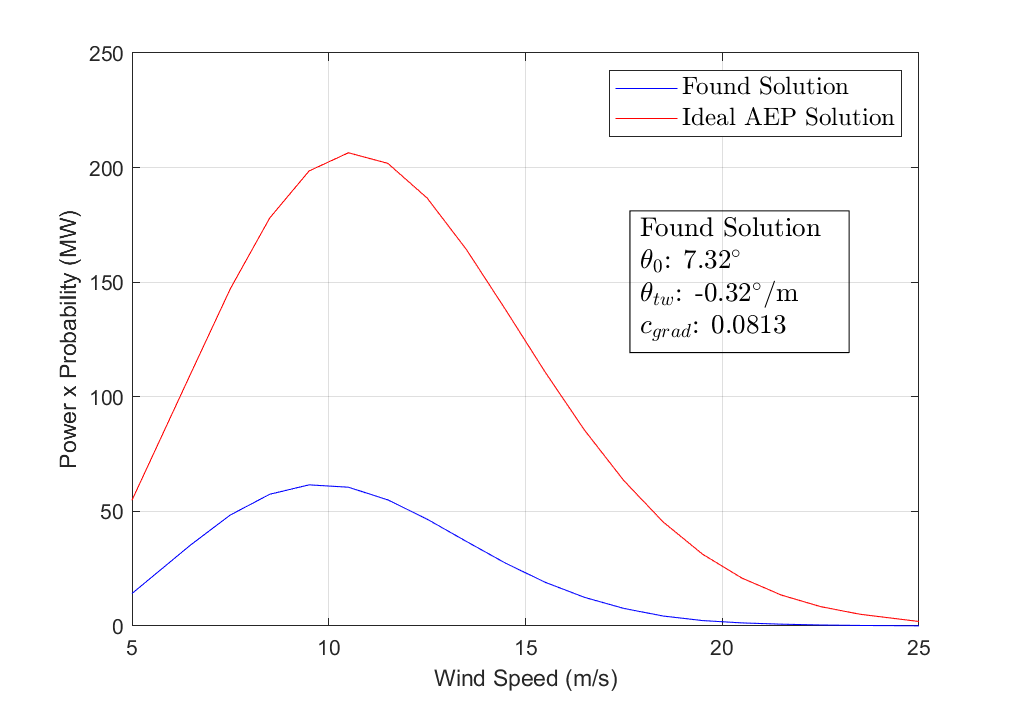
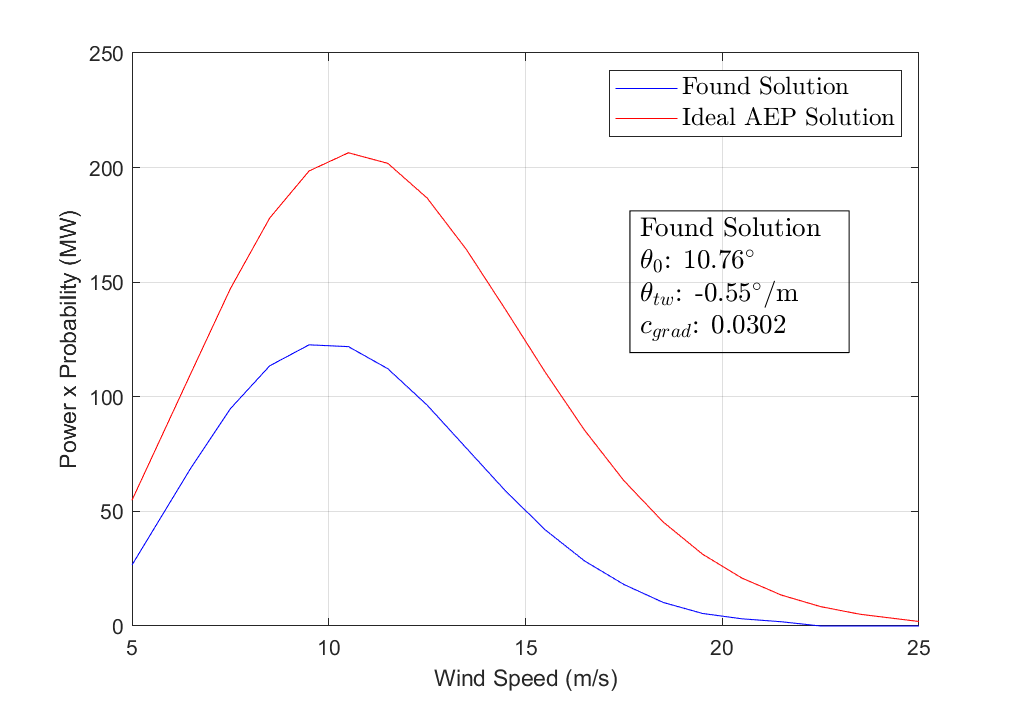
Fix bending issues

diff --git a/WTSingleVelocity.m b/WTSingleVelocity.m
@@ -4,7 +4,7 @@ function [Mtot_t, Mtot_n,S2,Power,def_max_y,def_max_z] = WTSingleVelocity(V0, Th
 %root.
 
 N=19; %set radius node count
-radius_delta=(TipRadius-RootRadius)/((2*N)); %Increment in radius
+radius_delta=(TipRadius-RootRadius)/(N); %Increment in radius
 S2=zeros(N,13); %Creat empty matrix to hold values
 
 c_mean_local=globaldata.c_mean;
@@ -18,7 +18,7 @@ pns=zeros(1,N+1);% Pzs
 
 for j=1:(2*N)
 
-    local_radius=RootRadius+((j-1)*radius_delta); % Calculate local radius from centre increment TODO shorten this
+    local_radius=RootRadius+((j-1)*0.5*radius_delta); % Calculate local radius from centre increment TODO shorten this
     local_chord=c_mean_local+((local_radius-((TipRadius-RootRadius)/2))*c_grad); % Calculate tapered chord
     local_theta=Theta0+(local_radius*ThetaTwist);
     [a_s1, adash_s1, phi_s1, Cn_s1, Ct_s1, Vrel, tol_s1, i_s1]=WTInducedCalcs(0.2,0.2,V0,w_local,local_radius,local_theta,local_chord,B,logid_local,etol_local,TipRadius,globaldata);

diff --git a/WTVelocityRange.m b/WTVelocityRange.m
@@ -14,7 +14,7 @@ momentHold=zeros(1,N+1);
 def_yHold=zeros(1,N+1);
 def_zHold=zeros(1,N+1);
 
-for pn=1:N+1
+parfor pn=1:N+1
         lowerbandv0=MinV0+((pn-1)*V0delta);
         [~,momentHold(pn),~,powerHold(pn),def_yHold(pn),def_zHold(pn)]=WTSingleVelocity(lowerbandv0, bladeConfig(1), bladeConfig(2), bladeConfig(3), TipRadius,RootRadius, B,globaldata);
 end

diff --git a/checkOptima.m b/checkOptima.m
@@ -5,7 +5,7 @@ function [xdeg_co] = checkOptima(x,globaldata)
 globaldata.flags.overrideLimits=true;
 
 %% Changing Theta 0
-N=500;
+N=200;
 variableSpace=linspace(deg2rad(2),deg2rad(18),N);
 aepHold=zeros(1,N);
 progressbar('Finding AEPs - Changing Theta');
